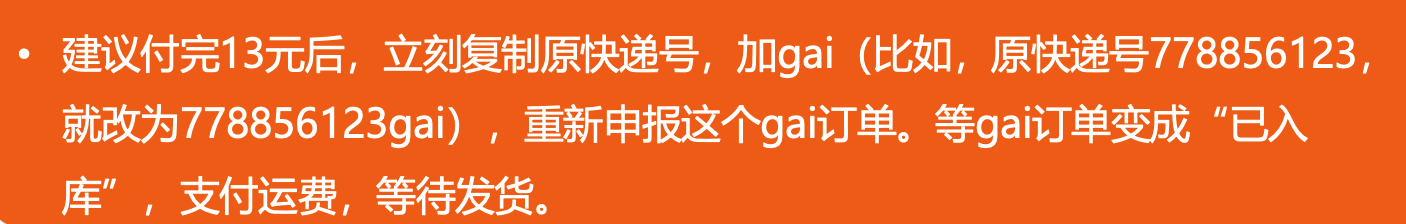
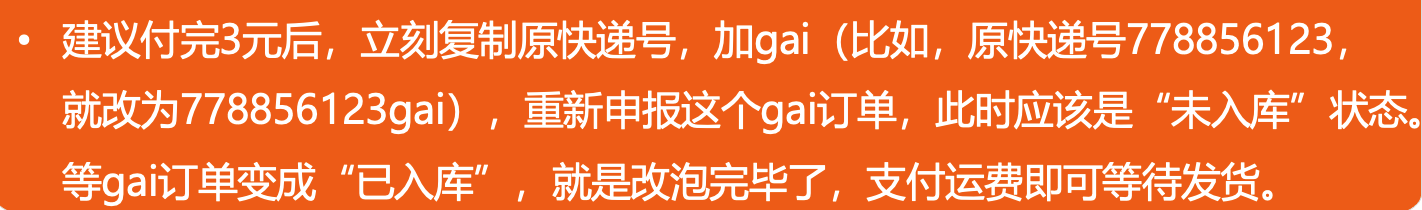
update gaipao to 3

diff --git a/kongyun.html b/kongyun.html
@@ -164,7 +164,7 @@
 							<h4 class="red">特货<span class="yellowRed">¥79.9</span>/KG</h4><p>人民币¥15.98/200g起运，续重¥7.99/100g。非管制刀具，以及食品（必须是正规密封包装，不可散装、无牌。除了速溶咖啡以外的液体/粉末/生鲜/药品严格禁运）。</p>
 							<h4 class="blue">注意：</h4>
 							<p> 1. 有体积重（长cm*宽cm*高cm/5000，与KG重相比，哪个大取哪个），点击此链接有体积重例子➡：<a href="https://ottawaali.github.io/kongyun-examples.html" style="text-decoration: underline;"> <span class="blueRed">体积重举例</span></a></p>
-							<p> 2. 体积重太大的蓬松物体，可以花13人民币/每件进行“改泡”。<span style="color: red;">具体流程看小程序-帮助支持-如何下单-用户守则</span>或点击此链接➡：<a href="https://ottawaali.github.io/kongyun-process.html" style="text-decoration: underline;"> <span class="blueRed">下单流程</span></a></p>
+							<p> 2. 体积重太大的蓬松物体，可以花3元人民币/每件进行“改泡”。<span style="color: red;">具体流程看小程序-帮助支持-如何下单-用户守则</span>或点击此链接➡：<a href="https://ottawaali.github.io/kongyun-process.html" style="text-decoration: underline;"> <span class="blueRed">下单流程</span></a></p>
                              <p>3. 任何一边长度超过55cm的包裹无法托运【超过0.1cm也不行】，另外，三边长之和超过110cm的包裹原则上亦将无法托运【超过0.1也不行】；实际重量超过22公斤的包裹的包裹原则上将无法托运。</p>
 	<p>4.请注意：只接受商家发的包裹。</p>
 	<img src="images/jiabao.jpeg"/ width="300" height="240">		
@@ -175,7 +175,7 @@
 							</div>
 							<p>1.文字+截图版本：点击此链接有更详细步骤➡：<a href="https://ottawaali.github.io/kongyun-process.html" style="text-decoration: underline;"> <span class="blueRed">下单流程</span></a></p>
 							<img src="images/fiveSteps.png"/ width="800" height="450">
-							<p>2.视频版本<strong class = "blue">（2024年1月版本）</strong></p>
+							<p>2.视频版本<strong class = "blue">（2024年1月版本，现在改泡只需3元，多了“服装”类别）</strong></p>
 						<p><strong class = "blue"></strong></p>
 							<div class="video-container">
 							<video  controls poster="images/kongyunface01.png" src="video/newJan29-2024.mp4" controls width=30% height=30%></video>

diff --git a/kongyun-process.html b/kongyun-process.html
@@ -107,22 +107,24 @@
 							<img src="images/Process01-1.jpg"/ width="300"  >
 <br>
 							<img src="images/Process02.png"/  width="600" >
+
+							
 							<p></p>
 							
-							<img src="images/Process02-1.png"/ width="400"  >
+							<img src="images/Process02-1.png"/ width="300"  >
+							<img src="images/newUserAddress.png"/  width="300" >
 							
 							<p></p>	
 							<img src="images/Process03.png"/  width="600" >
 							<p>1.</p>							
-							<img src="images/Process03-1.png"/ width="400"  >
+							<img src="images/Process03-1.png"/ width="300"  >
 							<p>2.</p>
 						
-							<img src="images/Process03-3.png"/ width="400"  >
+							<img src="images/Process03-3.png"/ width="300"  >
 													
 								<p></p>	
 							<img src="images/Process04-gaipao.png"/ width="600" >
 							<p>1.</p>
-							<img src="images/Process04-1.png"/ width="600"  >
 							<p>2.</p>
 							<img src="images/Process04-2.png"/ width="600"  >
 							<p>3.</p>

diff --git a/emt.html b/emt.html
@@ -106,7 +106,7 @@
 							<div class="title-section">
 							
 							<h3>EMT充值、之后用余额付款的流程</h3>：
-							<h4>１. 汇率换算：</br>先到小程序“我的”（顺便看看“我的”顶部下面，自己的ID是哪5位数字，第二步要用到）-“我的余额“ 选择充值，充值方式选择EMT（单次充值大于50加币即可，不需要理会小程序说的500人民币起）。<br>
+							<h4>１. 汇率换算：</br>先到小程序“我的”（顺便看看“我的”顶部下面，自己的ID是哪5位数字，第二步要用到）-“我的余额“ 选择充值，充值方式选择EMT（单次充值大于50加币即可，不需500人民币起）。<span style="background-color: yellow; color: red;">如果是50.01加币，请EMT50.01</span>，不是50，否则空运公司财务审核不过，耽误时间。<br>
 							<img src="images/emt0314.png"/ width="600" ><br>
 							
 							
